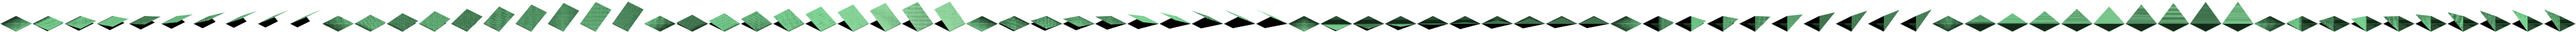
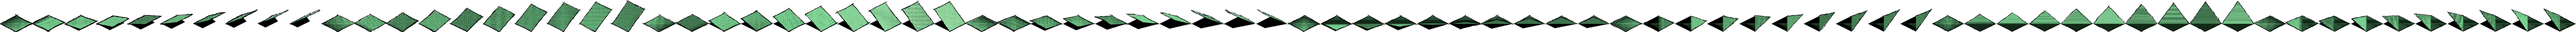
Peeling Layers.

diff --git a/core/src/com/monkeymaya/mayaworld/MayaWorldGame.java b/core/src/com/monkeymaya/mayaworld/MayaWorldGame.java
@@ -8,7 +8,7 @@ import com.badlogic.gdx.Gdx;
 import com.badlogic.gdx.graphics.GL20;
 import com.badlogic.gdx.graphics.OrthographicCamera;
 import com.badlogic.gdx.graphics.Texture;
-import com.badlogic.gdx.graphics.g2d.SpriteCache;
+import com.badlogic.gdx.graphics.g2d.SpriteBatch;
 import com.badlogic.gdx.graphics.glutils.ShapeRenderer;
 import com.badlogic.gdx.graphics.glutils.ShapeRenderer.ShapeType;
 import com.monkeymaya.mayaworld.utils.OrthoCamController;
@@ -16,8 +16,8 @@ import com.badlogic.gdx.utils.TimeUtils;
 
 public class MayaWorldGame extends ApplicationAdapter {
 	static final int LAYERS = 1;
-	static final int WIDTH = 48;
-	static final int HEIGHT = 48;
+	static final int WIDTH = 30;
+	static final int HEIGHT = 30;
 	static final int TILES_PER_LAYER = WIDTH * HEIGHT;
 	static final int TILE_WIDTH = 64;
 	static final int TILE_HEIGHT = 64;
@@ -26,10 +26,11 @@ public class MayaWorldGame extends ApplicationAdapter {
 	static final int BOUND_Y = HEIGHT * TILE_HEIGHT_DIAMOND / 2 + WIDTH * TILE_HEIGHT_DIAMOND / 2;
 
 	Texture texture;
-	SpriteCache[] caches = new SpriteCache[LAYERS];
-	int[] layers = new int[LAYERS];
+	SpriteBatch[] batches = new SpriteBatch[LAYERS];
 	int[] tilemap = new int[WIDTH*HEIGHT];
     int[] heightmap = new int[WIDTH*HEIGHT];
+    int[] anglemap = new int[WIDTH*HEIGHT];
+    int globalAngle = 0;
 
 	OrthographicCamera cam;
 	OrthoCamController camController;
@@ -38,44 +39,87 @@ public class MayaWorldGame extends ApplicationAdapter {
 
 	@Override
 	public void create () {
-		cam = new OrthographicCamera(860, 480);
-		camController = new OrthoCamController(cam);
-		Gdx.input.setInputProcessor(camController);
+        cam = new OrthographicCamera(860, 480);
+        camController = new OrthoCamController(cam);
+        Gdx.input.setInputProcessor(camController);
 
-		renderer = new ShapeRenderer();
-		texture = new Texture(Gdx.files.internal("tiles/tiles.png"));
+        renderer = new ShapeRenderer();
+        texture = new Texture(Gdx.files.internal("tiles/tiles.png"));
 
-		Random rand = new Random();
+        for (int i = 0; i < LAYERS; i++) {
+            batches[i] = new SpriteBatch();
+        }
 
-		for (int x = 0; x < WIDTH; x++) {
-			for (int y = 0; y < HEIGHT; y++) {
-				//map[y*WIDTH+x] = rand.nextInt(4);
+        initMap();
+    }
+
+    public void initMap() {
+
+        Random rand = new Random();
+
+        // Create flat land
+        for (int x = 0; x < WIDTH; x++) {
+            for (int y = 0; y < HEIGHT; y++) {
+                //map[y*WIDTH+x] = rand.nextInt(4);
                 tilemap[y*WIDTH+x] = 0;
                 heightmap[y*WIDTH+x] = 0;
-			}
-		}
+                anglemap[y*WIDTH+x] = 0;
+            }
+        }
 
-
-        for (int m = 0; m < 3; m++) {
+        // Add large mountains
+        for (int m = 0; m < 5; m++) {
 
             int rx = rand.nextInt(WIDTH-1) + 1;
             int ry = rand.nextInt(HEIGHT-1) + 1;
             int dir = rand.nextInt(4);
             //int height = rand.nextInt(10);
-            int height = 4;
+            int height = 0;
 
+            int tileHeight = 14;
+            int mSize = 2;
 
-            //map[ry*WIDTH+rx] = (dir*10)+height;
-/*
             // Middle tile
-            heightmap[ry*WIDTH+rx] = 14;
+            heightmap[ry*WIDTH+rx] = tileHeight;
             tilemap[ry*WIDTH+rx] = (0*10)+0;
 
             // 4 flat sides
-            tilemap[ry*WIDTH+(rx+1)] = (2*10)+height;
-            tilemap[ry*WIDTH+(rx-1)] = (0*10)+height;
-            tilemap[(ry+1)*WIDTH+rx] = (1*10)+height;
-            tilemap[(ry-1)*WIDTH+rx] = (3*10)+height;
+            tilemap[ry * WIDTH + (rx + 1)] = (2 * 10) + height;
+            tilemap[ry * WIDTH + (rx - 1)] = (0 * 10) + height;
+            tilemap[(ry + 1) * WIDTH + rx] = (1 * 10) + height;
+            tilemap[(ry - 1) * WIDTH + rx] = (3 * 10) + height;
+
+            // 4 diagonals
+            tilemap[(ry-1)*WIDTH+(rx-1)] = (4*10)+height;
+            tilemap[(ry+1)*WIDTH+(rx-1)] = (5*10)+height;
+            tilemap[(ry-1)*WIDTH+(rx+1)] = (7*10)+height;
+            tilemap[(ry+1)*WIDTH+(rx+1)] = (6*10)+height;
+        }
+
+        // Add large mountains
+        for (int m = 0; m < 5; m++) {
+
+            int rx = rand.nextInt(WIDTH-1) + 1;
+            int ry = rand.nextInt(HEIGHT-1) + 1;
+            int dir = rand.nextInt(4);
+            //int height = rand.nextInt(10);
+            int height = 0;
+
+
+            //if (rx > 2 && ry > 2) {
+            //map[ry*WIDTH+rx] = (dir*10)+height;
+
+            // Middle tile
+            heightmap[ry * WIDTH + rx] = 14;
+            tilemap[ry * WIDTH + rx] = (0 * 10) + 0;
+
+            /*
+            // 4 flat sides
+                tilemap[ry * WIDTH + (rx + 1)] = (2 * 10) + height;
+                tilemap[ry * WIDTH + (rx - 1)] = (0 * 10) + height;
+                tilemap[(ry + 1) * WIDTH + rx] = (1 * 10) + height;
+                tilemap[(ry - 1) * WIDTH + rx] = (3 * 10) + height;
+
 
             // 4 diagonals
             tilemap[(ry-1)*WIDTH+(rx-1)] = (4*10)+height;
@@ -83,12 +127,14 @@ public class MayaWorldGame extends ApplicationAdapter {
             tilemap[(ry-1)*WIDTH+(rx+1)] = (7*10)+height;
             tilemap[(ry+1)*WIDTH+(rx+1)] = (6*10)+height;
 */
+            //}
+
 
             int tileHeight = 14;
             int mSize = 2;
 
             // Middle tile
-            heightmap[ry*WIDTH+rx] += (tileHeight*2);
+            heightmap[ry*WIDTH+rx] = (tileHeight*2);
             tilemap[ry*WIDTH+rx] = (0*10)+0;
 
             // 4 flat sides
@@ -138,72 +184,93 @@ public class MayaWorldGame extends ApplicationAdapter {
             tilemap[(ry+2)*WIDTH+(rx+2)] = (6*10)+height;
             //heightmap[(ry+2)*WIDTH+(rx+2)] += (tileHeight);
 
-/*
-            tilemap[ry*WIDTH+(rx-1)] = (0*10)+height;
-            heightmap[ry*WIDTH+(rx-1)] += (tileHeight);
 
-            tilemap[(ry+1)*WIDTH+rx] = (1*10)+height;
-            heightmap[(ry+1)*WIDTH+rx] += (tileHeight);
-
-            tilemap[(ry-1)*WIDTH+rx] = (3*10)+height;
-            heightmap[(ry-1)*WIDTH+rx] += (tileHeight);
-*/
 
             //        map[ry*WIDTH+rx] = (dir*10)+height;
-  //          map[ry*WIDTH+rx] = (dir*10)+height;
+            //          map[ry*WIDTH+rx] = (dir*10)+height;
 //            map[ry*WIDTH+rx] = (dir*10)+height;
-
-
-
 
         }
 
+    }
 
-		for (int i = 0; i < LAYERS; i++) {
-			caches[i] = new SpriteCache();
-			SpriteCache cache = caches[i];
-			cache.beginCache();
+	public void genMap() {
 
-			int colX = HEIGHT * TILE_WIDTH / 2 - TILE_WIDTH / 2;
-			int colY = BOUND_Y - TILE_HEIGHT_DIAMOND;
-			for (int x = 0; x < WIDTH; x++) {
-				for (int y = 0; y < HEIGHT; y++) {
-					int tileX = colX - y * TILE_WIDTH / 2;
-					int tileY = (colY - y * TILE_HEIGHT_DIAMOND / 2) + heightmap[y*WIDTH+x];
+        Random rand = new Random();
+        int r = rand.nextInt(8);
+        int s = rand.nextInt(2);
 
-					cache.add(texture, tileX, tileY, tilemap[y*WIDTH+x] * TILE_WIDTH, 0, TILE_WIDTH, TILE_HEIGHT);
-				}
-				colX += (TILE_WIDTH / 2)-1;
-				colY -= (TILE_HEIGHT_DIAMOND / 2);
-			}
+        int w = Math.round(r/8.0f);
+        if (s == 0) {
+            w *= -1;
+        }
+        globalAngle += w;
 
-			layers[i] = cache.endCache();
-		}
-	}
+        // Adjust weights
+        for (int x = 0; x < WIDTH; x++) {
+            for (int y = 0; y < HEIGHT; y++) {
+                //map[y*WIDTH+x] = rand.nextInt(4);
+
+                //heightmap[y*WIDTH+x] += w;
+                //tilemap[y*WIDTH+x] += w;
+//                anglemap[y*WIDTH+x] += w;
+            }
+        }
+
+        if (globalAngle < 1) {
+            globalAngle = 1;
+        }
+
+        if (globalAngle > 8) {
+            globalAngle = 8;
+        }
+
+        //int w = anglemap[y*WIDTH+x];
+
+
+
+        for (int i = 0; i < LAYERS; i++) {
+            SpriteBatch batch = batches[i];
+            batch.setProjectionMatrix(cam.combined);
+            batch.begin();
+
+            int colX = HEIGHT * TILE_WIDTH / 2 - TILE_WIDTH / 2;
+            int colY = BOUND_Y - TILE_HEIGHT_DIAMOND;
+            for (int x = 0; x < WIDTH; x++) {
+                for (int y = 0; y < HEIGHT; y++) {
+                    int tileX = colX - y * TILE_WIDTH / 2;
+                    int tileY = (colY - y * TILE_HEIGHT_DIAMOND / 2) + heightmap[y*WIDTH+x];
+                    int tileId = tilemap[y*WIDTH+x]+globalAngle;
+
+                    batch.draw(texture, tileX, tileY, tileId * TILE_WIDTH, 0, TILE_WIDTH, TILE_HEIGHT);
+                }
+                colX += (TILE_WIDTH / 2)-1;
+                colY -= (TILE_HEIGHT_DIAMOND / 2);
+            }
+
+            batch.end();
+        }
+    }
 
 	@Override
 	public void dispose () {
 		renderer.dispose();
 		texture.dispose();
-		for (SpriteCache cache : caches)
-			cache.dispose();
+		for (SpriteBatch batch : batches)
+			batch.dispose();
 	}
 
 	@Override
 	public void render () {
+
 		Gdx.gl.glClearColor(0.7f, 0.7f, 0.7f, 1);
 		Gdx.gl.glClear(GL20.GL_COLOR_BUFFER_BIT);
 		cam.update();
 
 		Gdx.gl.glEnable(GL20.GL_BLEND);
 		Gdx.gl.glBlendFunc(GL20.GL_SRC_ALPHA, GL20.GL_ONE_MINUS_SRC_ALPHA);
-		for (int i = 0; i < LAYERS; i++) {
-			SpriteCache cache = caches[i];
-			cache.setProjectionMatrix(cam.combined);
-			cache.begin();
-			cache.draw(layers[i]);
-			cache.end();
-		}
+
+        genMap();
 
 		renderer.setProjectionMatrix(cam.combined);
 		renderer.begin(ShapeType.Line);
